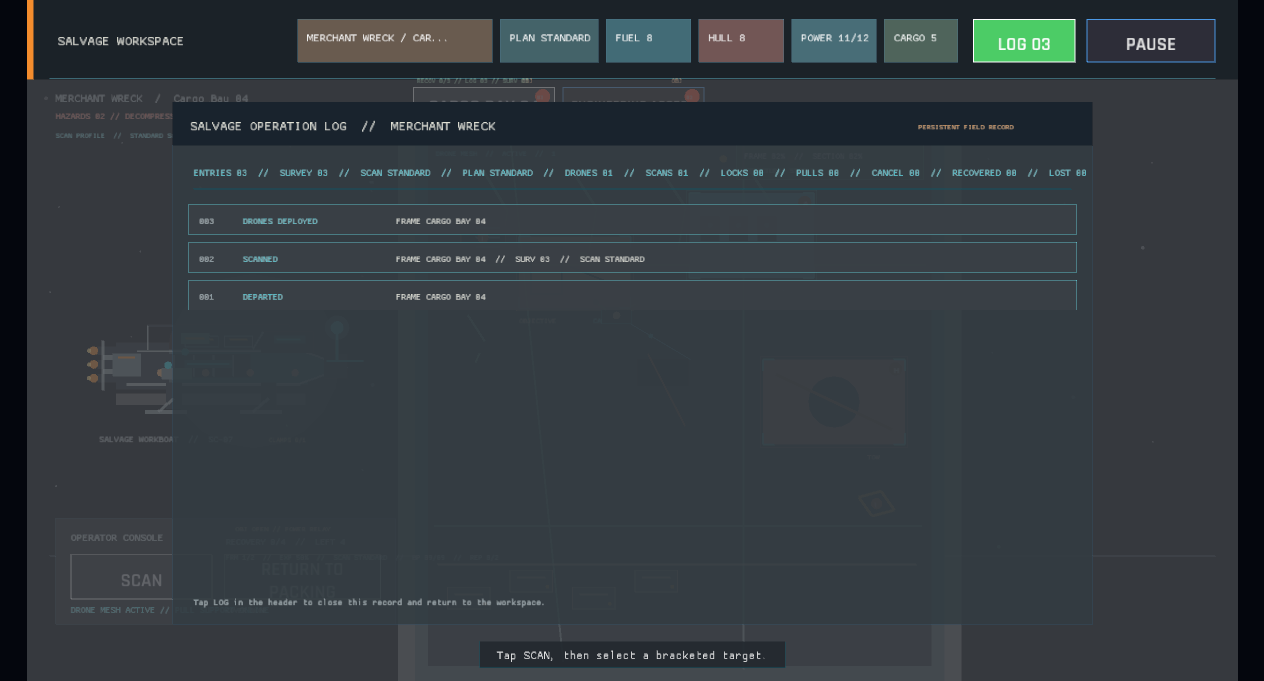
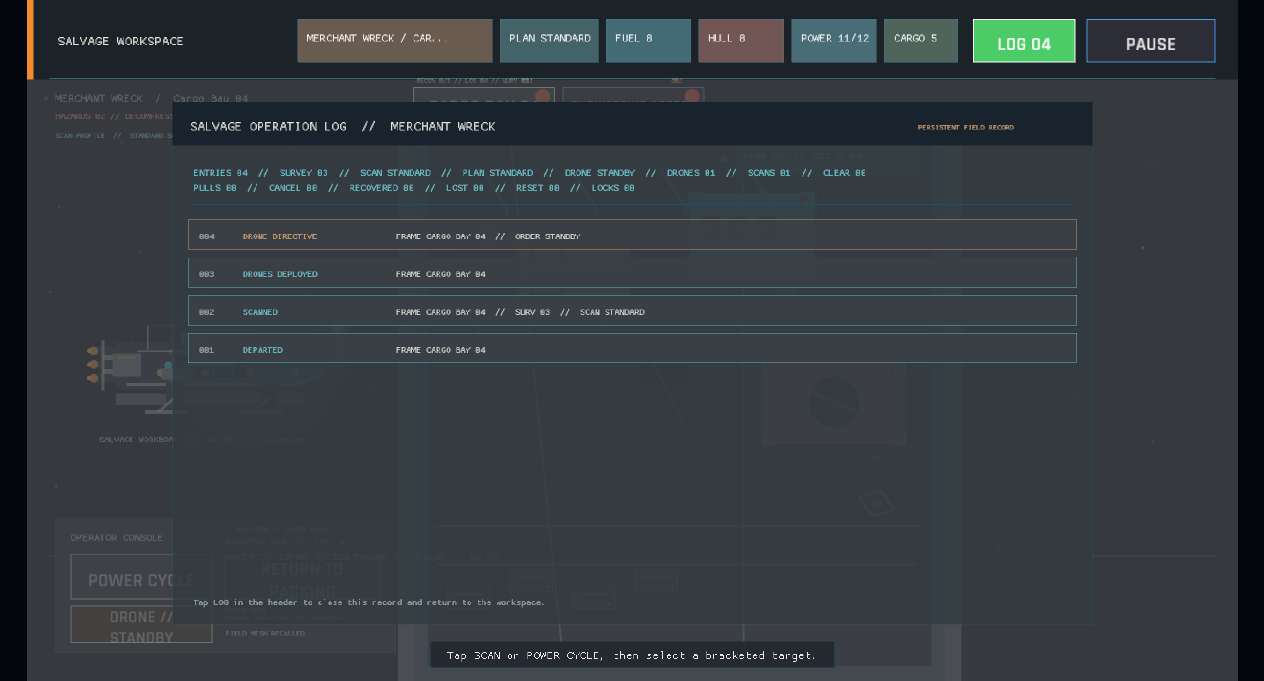
The logbook keeps the old ghost-order beside the new one (historical drone directives)
Drone directive events now carry their own selected order in the persistent operation log instead of borrowing the current workspace state. Save validation requires that context, and the field-log capture demonstrates that older order changes remain truthful after later changes.

diff --git a/src/state/workspace_drones.rs b/src/state/workspace_drones.rs
@@ -1,6 +1,6 @@
 //! Authoritative drone orders and support effects for the active workspace.
 
-use super::{DroneDirective, GameSession, WorkspaceLogEvent};
+use super::{DroneDirective, GameSession, WorkspaceLogEntry, WorkspaceLogEvent};
 use crate::data::GameData;
 
 impl GameSession {
@@ -45,12 +45,17 @@ impl GameSession {
         }
         let site_id = expedition.site_id.clone();
         let section_id = expedition.workspace_section.clone();
-        self.append_workspace_log(
-            &site_id,
-            WorkspaceLogEvent::DroneDirectiveChanged,
-            Some(section_id.as_str()),
-            None,
-        );
+        if let Some(progress) = self.site_progress.get_mut(&site_id) {
+            let sequence = progress.operation_log.len() as u32 + 1;
+            progress
+                .operation_log
+                .push(WorkspaceLogEntry::with_drone_directive(
+                    sequence,
+                    WorkspaceLogEvent::DroneDirectiveChanged,
+                    Some(section_id.as_str()),
+                    next,
+                ));
+        }
         Ok(format!(
             "Drone directive: {}. {}",
             next.label(),

diff --git a/src/state/workspace_records.rs b/src/state/workspace_records.rs
@@ -1,6 +1,7 @@
 //! Serialized field records and target intelligence retained between runs.
 
 use crate::data::SalvageObjectData;
+use crate::state::DroneDirective;
 use serde::{Deserialize, Serialize};
 
 #[derive(Debug, Clone, Copy, PartialEq, Eq, Serialize, Deserialize)]
@@ -57,6 +58,8 @@ pub struct WorkspaceLogEntry {
     pub section_id: String,
     #[serde(default)]
     pub target_id: Option<String>,
+    #[serde(default)]
+    pub drone_directive: Option<DroneDirective>,
 }
 
 impl WorkspaceLogEntry {
@@ -71,6 +74,22 @@ impl WorkspaceLogEntry {
             event,
             section_id: section_id.unwrap_or_default().to_owned(),
             target_id: target_id.map(str::to_owned),
+            drone_directive: None,
+        }
+    }
+
+    pub fn with_drone_directive(
+        sequence: u32,
+        event: WorkspaceLogEvent,
+        section_id: Option<&str>,
+        directive: DroneDirective,
+    ) -> Self {
+        Self {
+            sequence,
+            event,
+            section_id: section_id.unwrap_or_default().to_owned(),
+            target_id: None,
+            drone_directive: Some(directive),
         }
     }
 }

diff --git a/src/state/workspace/tests.rs b/src/state/workspace/tests.rs
@@ -653,11 +653,20 @@ fn drone_directive_cycles_between_speed_safety_and_standby() {
         .unwrap();
     assert!(survey_duration > pull_duration);
     assert!(survey_report.mitigation > pull_report.mitigation);
-    assert!(session
+    let directive_events: Vec<_> = session
         .workspace_log()
         .unwrap()
         .iter()
-        .any(|entry| entry.event == WorkspaceLogEvent::DroneDirectiveChanged));
+        .filter(|entry| entry.event == WorkspaceLogEvent::DroneDirectiveChanged)
+        .map(|entry| entry.drone_directive)
+        .collect();
+    assert_eq!(
+        directive_events,
+        vec![
+            Some(crate::state::DroneDirective::Standby),
+            Some(crate::state::DroneDirective::Survey)
+        ]
+    );
 
     let restored = GameSession::from_save(session.to_save(&data.config.version), &data).unwrap();
     assert_eq!(

diff --git a/src/state/validation.rs b/src/state/validation.rs
@@ -105,6 +105,13 @@ pub(super) fn validate_saved_runtime(
                     "save operation log has mismatched target context at site '{site_id}'"
                 ));
             }
+            if entry.event == WorkspaceLogEvent::DroneDirectiveChanged
+                && entry.drone_directive.is_none()
+            {
+                return Err(format!(
+                    "save drone directive event has no recorded order at site '{site_id}'"
+                ));
+            }
             if let Some(target_id) = &entry.target_id {
                 if !data.salvage_objects.contains(target_id)
                     || !site.sections.iter().any(|section| {

diff --git a/src/ui/workspace_log.rs b/src/ui/workspace_log.rs
@@ -276,7 +276,12 @@ fn entry_context(ctx: &UiContext<'_>, entry: &WorkspaceLogEntry) -> String {
             expedition.scan_profile
         });
     let scan_suffix = scan_log_suffix(entry.event, scan_profile);
-    let event_suffix = event_context_suffix(entry.event, ctx.session.workspace_drone_directive());
+    let event_suffix = event_context_suffix(
+        entry.event,
+        entry
+            .drone_directive
+            .unwrap_or_else(|| ctx.session.workspace_drone_directive()),
+    );
     match target {
         Some(target) => format!(
             "{}  //  FRAME {}{}{}{}",

diff --git a/src/game/capture.rs b/src/game/capture.rs
@@ -460,6 +460,7 @@ impl Game {
                 purchase_capture_module(self, "drone_bay");
                 let _ = self.session.begin_expedition("merchant_wreck", &self.data);
                 let _ = self.session.scan_workspace(&self.data);
+                let _ = self.session.cycle_drone_directive(&self.data);
                 self.workspace_elapsed = 2.4;
                 self.workspace_log_open = true;
                 GameState::SalvageWorkspace
